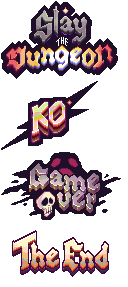
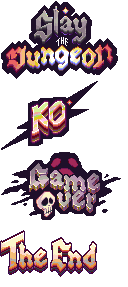
additional spacing added to avoid cut out interface on some devices

Changed region(s): [[0.0, 0.7805, 0.875, 0.9756]]

diff --git a/core/src/main/java/com/pizenblues/pixeldungeon/scenes/SurfaceScene.java b/core/src/main/java/com/pizenblues/pixeldungeon/scenes/SurfaceScene.java
@@ -60,11 +60,13 @@ public class SurfaceScene extends PixelScene {
 		Music.INSTANCE.play( Assets.EXTERIOR, true );
 		Music.INSTANCE.volume( 1f );
 
+        int cutoutTopPadding = PixelDungeon.landscape() ? -8 : 16;
+
 		uiCamera.visible = false;
 		int w = Camera.main.width;
 		int h = Camera.main.height;
 		float vx = align( (w - SKY_WIDTH) / 2 );
-		float vy = align( (h - SKY_HEIGHT) / 2 );
+		float vy = align( (h - SKY_HEIGHT) / 2 ) - cutoutTopPadding;
 
 		Point s = Camera.main.cameraToScreen( vx, vy );
 		viewport = new Camera( s.x, s.y, SKY_WIDTH, SKY_HEIGHT, defaultZoom );
@@ -88,37 +90,39 @@ public class SurfaceScene extends PixelScene {
 		frame.y = vy - FRAME_MARGIN_TOP;
 		add( frame );
 
-		BitmapTextMultiline text = createMultiline( TXT, 7);
-		text.maxWidth = Math.min( w, 100 );
-		text.measure();
-		text.x = PixelDungeon.landscape() ? (w - text.width() - 8) : align( (w - text.width()) / 2 );
-		text.y = PixelDungeon.landscape() ? 8 : h - text.height() - BUTTON_HEIGHT - 24;
-		add( text );
-
-		float buttonPositionY = text.y + text.height() + 8;
-		float buttonPositionX = PixelDungeon.landscape() ? text.x : (w - BUTTON_WIDTH) / 2;
-
-		PrimaryButton gameOverButton = new PrimaryButton( "Leave dungeon" ) {
-			protected void onClick() {
-				Game.switchScene( TitleScene.class );
-			}
-		};
-		gameOverButton.setSize( BUTTON_WIDTH, BUTTON_HEIGHT );
-		gameOverButton.setPos(buttonPositionX,buttonPositionY);
-		add( gameOverButton );
+        Image title = BannerSprites.get( BannerSprites.Type.THE_END );
+        add( title );
+        title.x = (w - title.width()) / 2;
+        title.y = PixelDungeon.landscape() ? 16 : 4;
 
 		Avatar characteravatar = new Avatar( Dungeon.hero.heroClass.title());
 		//Avatar characteravatar = new Avatar( "tank");
+
 		characteravatar.scale.set(0.6f);
 		float avatarTrueWidth = characteravatar.width() * 0.6f;
 		characteravatar.x = (w - avatarTrueWidth) / 2;
 		characteravatar.y = (frame.y + (frame.height() * 0.5f)) - 5;
 		add( characteravatar );
 
-		Image title = BannerSprites.get( BannerSprites.Type.THE_END );
-		add( title );
-		title.x = (w - title.width()) / 2;
-		title.y = 4;
+        float buttonPositionY = h - BUTTON_HEIGHT - 24;
+        float buttonPositionX = PixelDungeon.landscape() ? (w - BUTTON_WIDTH - 24) : align( (w - BUTTON_WIDTH) / 2 );
+
+        PrimaryButton gameOverButton = new PrimaryButton( "Leave dungeon" ) {
+            protected void onClick() {
+                Game.switchScene( TitleScene.class );
+            }
+        };
+        gameOverButton.setSize( BUTTON_WIDTH, BUTTON_HEIGHT );
+        gameOverButton.setPos(buttonPositionX,buttonPositionY);
+        add( gameOverButton );
+
+        BitmapTextMultiline text = createMultiline( TXT, 7);
+        int textWidth = 100;
+        text.maxWidth = Math.min( w, textWidth);
+        text.measure();
+        text.x = align( (w - text.width()) / 2 );
+        text.y = title.y + title.height() + 4;
+        add( text );
 
 		Badges.validateHappyEnd();
 

diff --git a/core/src/main/java/com/pizenblues/pixeldungeon/ui/StatusPane.java b/core/src/main/java/com/pizenblues/pixeldungeon/ui/StatusPane.java
@@ -28,6 +28,7 @@ import com.pizenblues.noosa.ui.Button;
 import com.pizenblues.noosa.ui.Component;
 import com.pizenblues.pixeldungeon.Assets;
 import com.pizenblues.pixeldungeon.Dungeon;
+import com.pizenblues.pixeldungeon.PixelDungeon;
 import com.pizenblues.pixeldungeon.items.keys.IronKey;
 import com.pizenblues.pixeldungeon.scenes.GameScene;
 import com.pizenblues.pixeldungeon.scenes.PixelScene;
@@ -55,10 +56,14 @@ public class StatusPane extends Component {
 
 	@Override
 	protected void createChildren() {
+
+        int cutoutSidePadding = PixelDungeon.landscape() ? 22 : 8;
+        int cutoutTopPadding = 10;
+
 		shield = new NinePatch( Assets.STATUS, 105, 0, 21, 0 );
 		add( shield );
 		
-		add( new TouchArea( 0, 10, 50, 50 ) {
+		add( new TouchArea( 0, cutoutTopPadding, 50, 50 ) {
 			@Override
 			protected void onClick( Touch touch ) {
 				Sample.INSTANCE.play( Assets.SND_CLICK );
@@ -74,7 +79,7 @@ public class StatusPane extends Component {
 		heroImage.texture(Dungeon.hero.heroClass.portrait());
 		updatePortrait(Dungeon.hero.HP, false);
 		heroImage.x = 2;
-		heroImage.y = 12;
+		heroImage.y = cutoutTopPadding;
 		add(heroImage);
 		
 		btnMenu = new MenuButton();
@@ -121,33 +126,35 @@ public class StatusPane extends Component {
 	
 	@Override
 	protected void layout() {
+        int cutoutTopPadding = 10;
+
 		height = 32;
 		shield.size( width, shield.height );
-        shield.y = 10;
+        shield.y = cutoutTopPadding;
 
-        buffs.setPos( 3, 54 );
+        buffs.setPos( 3, cutoutTopPadding + 44 );
 
 		compass.x = 35;
-		compass.y = 38;
+		compass.y = cutoutTopPadding + 28;
 
 		hp.x = 58;
-		hp.y = 12;
+		hp.y = cutoutTopPadding + 2;
 
 		exp.x = 58;
-		exp.y = 17;
+		exp.y = cutoutTopPadding + 7;
 
 		strength.x = 48;
-		strength.y = 22;
+		strength.y = cutoutTopPadding + 12;
 
 		keys.x = 58;
-		keys.y = 22;
+		keys.y = cutoutTopPadding + 12;
 
 		depth.x = 78;
-		depth.y = 22;
+		depth.y = cutoutTopPadding + 12;
 
 		layoutTags();
 
-		btnMenu.setPos( width - btnMenu.width() - 2, 11 );
+		btnMenu.setPos( width - btnMenu.width() - 2, cutoutTopPadding + 1 );
 	}
 	
 	private void layoutTags() {

diff --git a/core/src/main/java/com/pizenblues/pixeldungeon/scenes/StartScene.java b/core/src/main/java/com/pizenblues/pixeldungeon/scenes/StartScene.java
@@ -65,7 +65,6 @@ public class StartScene extends PixelScene {
 	private static HashMap<HeroClass, ClassShield> shields = new HashMap<HeroClass, ClassShield>();
 	private float buttonX;
 	private float buttonY;
-	public float bottomPadding = 12;
 	private LoadButton btnLoad;
 	private GameButton btnNewGame;
 	private boolean huntressUnlocked;
@@ -88,6 +87,11 @@ public class StartScene extends PixelScene {
 		int w = Camera.main.width;
 		int h = Camera.main.height;
 
+        // padding to prevent cutouts
+        int cutoutSidePadding = PixelDungeon.landscape() ? 22 : 8;
+        int cutoutTopPadding = 12;
+        int cutoutBottonPadding = PixelDungeon.landscape() ? 8 : 20;
+
 		float width;
 		if (PixelDungeon.landscape()) {
 			width = WIDTH_L;
@@ -99,14 +103,14 @@ public class StartScene extends PixelScene {
 
 		add(selectText);
 		selectText.measure();
-		selectText.y = 10;
+		selectText.y = cutoutTopPadding + 2;
 		selectText.x = (w - selectText.width()) / 2;
 
         doorAnim = placeDoorAnim();
 
         title = new Image();
         title.x = align((w - 86) / 2);
-        title.y = align(selectText.y + 8);
+        title.y = align(selectText.y + 10);
         add(title);
 
         splash = new Image();
@@ -125,7 +129,7 @@ public class StartScene extends PixelScene {
         //fireAnim = placeAnim();
 
 		buttonX = left;
-		buttonY = h - bottomPadding - BUTTON_HEIGHT;
+		buttonY = h - cutoutBottonPadding - BUTTON_HEIGHT;
 
 		btnNewGame = new GameButton(TXT_NEW) {
 			@Override
@@ -187,7 +191,7 @@ public class StartScene extends PixelScene {
 		add( heroDescription );
 
 		ClassInfoButton challenge = new ClassInfoButton();
-		challenge.setPos(w - challenge.width() - 4,10);
+		challenge.setPos(w - challenge.width() - cutoutSidePadding,cutoutTopPadding);
 		add( challenge );
 
 		unlock = new Group();
@@ -210,7 +214,7 @@ public class StartScene extends PixelScene {
 		}
 
 		ExitButton btnExit = new ExitButton();
-		btnExit.setPos( 4, 10 );
+		btnExit.setPos( cutoutSidePadding, cutoutTopPadding );
 		add( btnExit );
 
 		curClass = null;

diff --git a/core/src/main/java/com/pizenblues/pixeldungeon/scenes/BadgesScene.java b/core/src/main/java/com/pizenblues/pixeldungeon/scenes/BadgesScene.java
@@ -53,13 +53,17 @@ public class BadgesScene extends PixelScene {
 		
 		int w = Camera.main.width;
 		int h = Camera.main.height;
+
+        // padding to prevent cutouts
+        int cutoutSidePadding = 8;
+        int cutoutTopPadding = 12;
 		
 		Archs archs = new Archs();
 		archs.setSize( w, h );
 		add( archs );
 		
 		int pw = (int)Math.min( w, (PixelDungeon.landscape() ? MIN_WIDTH_L : MIN_WIDTH_P) * 3 ) - 16;
-		int ph = (int)Math.min( h, (PixelDungeon.landscape() ? MIN_HEIGHT_L : MIN_HEIGHT_P) * 3 ) - 32;
+		int ph = (int)Math.min( h, (PixelDungeon.landscape() ? MIN_HEIGHT_L : MIN_HEIGHT_P) * 3 ) - 48;
 		
 		float size = (float)Math.sqrt( pw * ph / 27f );
 		int nCols = (int)Math.ceil( pw / size );
@@ -73,7 +77,7 @@ public class BadgesScene extends PixelScene {
 		title.hardlight( Window.TITLE_COLOR );
 		title.measure();
 		title.x = align( (w - title.width()) / 2 );
-		title.y = align( (top - title.baseLine()) / 2 );
+		title.y = cutoutTopPadding + 2;
 		add( title );
 		
 		Badges.loadGlobal();
@@ -92,7 +96,7 @@ public class BadgesScene extends PixelScene {
 		}
 		
 		ExitButton btnExit = new ExitButton();
-		btnExit.setPos(4,10);
+		btnExit.setPos(cutoutSidePadding,cutoutTopPadding);
 		add( btnExit );
 		
 		fadeIn();

diff --git a/core/src/main/java/com/pizenblues/pixeldungeon/windows/WndSettings.java b/core/src/main/java/com/pizenblues/pixeldungeon/windows/WndSettings.java
@@ -160,23 +160,22 @@ public class WndSettings extends Window {
 			btnQuickslot.setRect( 0, btnBrightness.bottom() + GAP, WIDTH, BTN_HEIGHT );
 			btnQuickslot.checked( Toolbar.secondQuickslot() );
 			add( btnQuickslot );
-			
-			resize( WIDTH, (int)btnQuickslot.bottom() );
-			
-		} else {
-			
-			SecondaryButton btnOrientation = new SecondaryButton( orientationText() ) {
-				@Override
-				protected void onClick() {
-					PixelDungeon.landscape( !PixelDungeon.landscape() );
-				}
-			};
-			btnOrientation.setRect( 0, btnSound.bottom() + GAP, WIDTH, BTN_HEIGHT );
-			add( btnOrientation );
-			
-			resize( WIDTH, (int)btnOrientation.bottom() );
-			
+
+            resize( WIDTH, (int)btnQuickslot.bottom() );
 		}
+
+        float menuBottom = inGame ? 110 : btnSound.bottom() + GAP;
+
+        SecondaryButton btnOrientation = new SecondaryButton( orientationText() ) {
+            @Override
+            protected void onClick() {
+                PixelDungeon.landscape( !PixelDungeon.landscape() );
+            }
+        };
+        btnOrientation.setRect( 0, menuBottom, WIDTH, BTN_HEIGHT );
+        add( btnOrientation );
+
+        resize( WIDTH, (int)btnOrientation.bottom() );
 	}
 	
 	private void zoom( float value ) {

diff --git a/core/src/main/java/com/pizenblues/pixeldungeon/scenes/TitleScene.java b/core/src/main/java/com/pizenblues/pixeldungeon/scenes/TitleScene.java
@@ -46,14 +46,18 @@ public class TitleScene extends PixelScene {
 		uiCamera.visible = false;
 
 		int w = Camera.main.width;
-		int h = Camera.main.height;
+
+        // padding to prevent cutouts
+        int cutoutSidePadding = PixelDungeon.landscape() ? 22 : 8;
+        int cutoutTopPadding = 12;
+        //int cutoutBottonPadding = 20;
 
 		doorAnimation = placeAnim();
 
 		Image title = BannerSprites.get( BannerSprites.Type.PIXEL_DUNGEON );
 		add( title );
 		title.x = (w - title.width()) / 2;
-		title.y = PixelDungeon.landscape() ? 8 : doorAnimation.y - title.height() - 20;
+		title.y = PixelDungeon.landscape() ? cutoutTopPadding : doorAnimation.y - title.height() - cutoutTopPadding;
 
 		clickArea btnPlay = new clickArea( TXT_PLAY);
 		float titlePositionY = doorAnimation.y;
@@ -62,7 +66,7 @@ public class TitleScene extends PixelScene {
 
         btnMenu = new MenuButton();
         add( btnMenu );
-        btnMenu.setPos( w - btnMenu.width() - 5, 8 );
+        btnMenu.setPos( w - btnMenu.width() - cutoutSidePadding, cutoutTopPadding );
 
 		fadeIn();
 	}

diff --git a/core/src/main/java/com/pizenblues/pixeldungeon/scenes/GameScene.java b/core/src/main/java/com/pizenblues/pixeldungeon/scenes/GameScene.java
@@ -108,6 +108,11 @@ public class GameScene extends PixelScene {
 	
 	@Override
 	public void create() {
+
+        // padding to prevent cutouts
+        int cutoutSidePadding = PixelDungeon.landscape() ? 22 : 0;
+        int cutoutBottonPadding = PixelDungeon.landscape() ? 0 : 16;
+
 		Dungeon.level.playLevelMusic(Dungeon.depth);
 		
 		PixelDungeon.lastClass( Dungeon.hero.heroClass.ordinal() );
@@ -200,12 +205,12 @@ public class GameScene extends PixelScene {
 		
 		StatusPane sb = new StatusPane();
 		sb.camera = uiCamera;
-		sb.setSize( uiCamera.width, 0 );
+		sb.setSize( uiCamera.width - cutoutSidePadding, 0 );
 		add( sb );
 		
 		toolbar = new Toolbar();
 		toolbar.camera = uiCamera;
-		toolbar.setRect( 0,uiCamera.height - toolbar.height(), uiCamera.width, toolbar.height() );
+		toolbar.setRect( 0,uiCamera.height - toolbar.height() - cutoutBottonPadding, uiCamera.width - cutoutSidePadding, toolbar.height() );
 		add( toolbar );
 		
 		AttackIndicator attack = new AttackIndicator();

diff --git a/core/src/main/java/com/pizenblues/pixeldungeon/scenes/AboutScene.java b/core/src/main/java/com/pizenblues/pixeldungeon/scenes/AboutScene.java
@@ -49,9 +49,13 @@ public class AboutScene extends PixelScene {
 	@Override
 	public void create() {
 		super.create();
-		float newPosition = PixelDungeon.landscape() ? 12 : 72;
+		float newPosition = PixelDungeon.landscape() ? 12 : 60;
 		int w = Camera.main.width;
 		int h = Camera.main.height;
+
+        // padding to prevent cutouts
+        int cutoutSidePadding = 8;
+        int cutoutTopPadding = 12;
 
         fireAnim = placeAnim();
 
@@ -99,7 +103,7 @@ public class AboutScene extends PixelScene {
 		add( version );
 		
 		ExitButton btnExit = new ExitButton();
-		btnExit.setPos( 4, 10 );
+		btnExit.setPos( cutoutSidePadding, cutoutTopPadding );
 		add( btnExit );
 		
 		fadeIn();

diff --git a/core/src/main/java/com/pizenblues/pixeldungeon/scenes/RankingsScene.java b/core/src/main/java/com/pizenblues/pixeldungeon/scenes/RankingsScene.java
@@ -67,6 +67,10 @@ public class RankingsScene extends PixelScene {
 		
 		int w = Camera.main.width;
 		int h = Camera.main.height;
+
+        // padding to prevent cutouts
+        int cutoutSidePadding = 8;
+        int cutoutTopPadding = 12;
 		
 		archs = new Archs();
 		archs.setSize( w, h );
@@ -135,7 +139,7 @@ public class RankingsScene extends PixelScene {
 		}
 		
 		ExitButton btnExit = new ExitButton();
-		btnExit.setPos(4,10);
+		btnExit.setPos(cutoutSidePadding, cutoutTopPadding);
 		add( btnExit );
 		
 		fadeIn();
